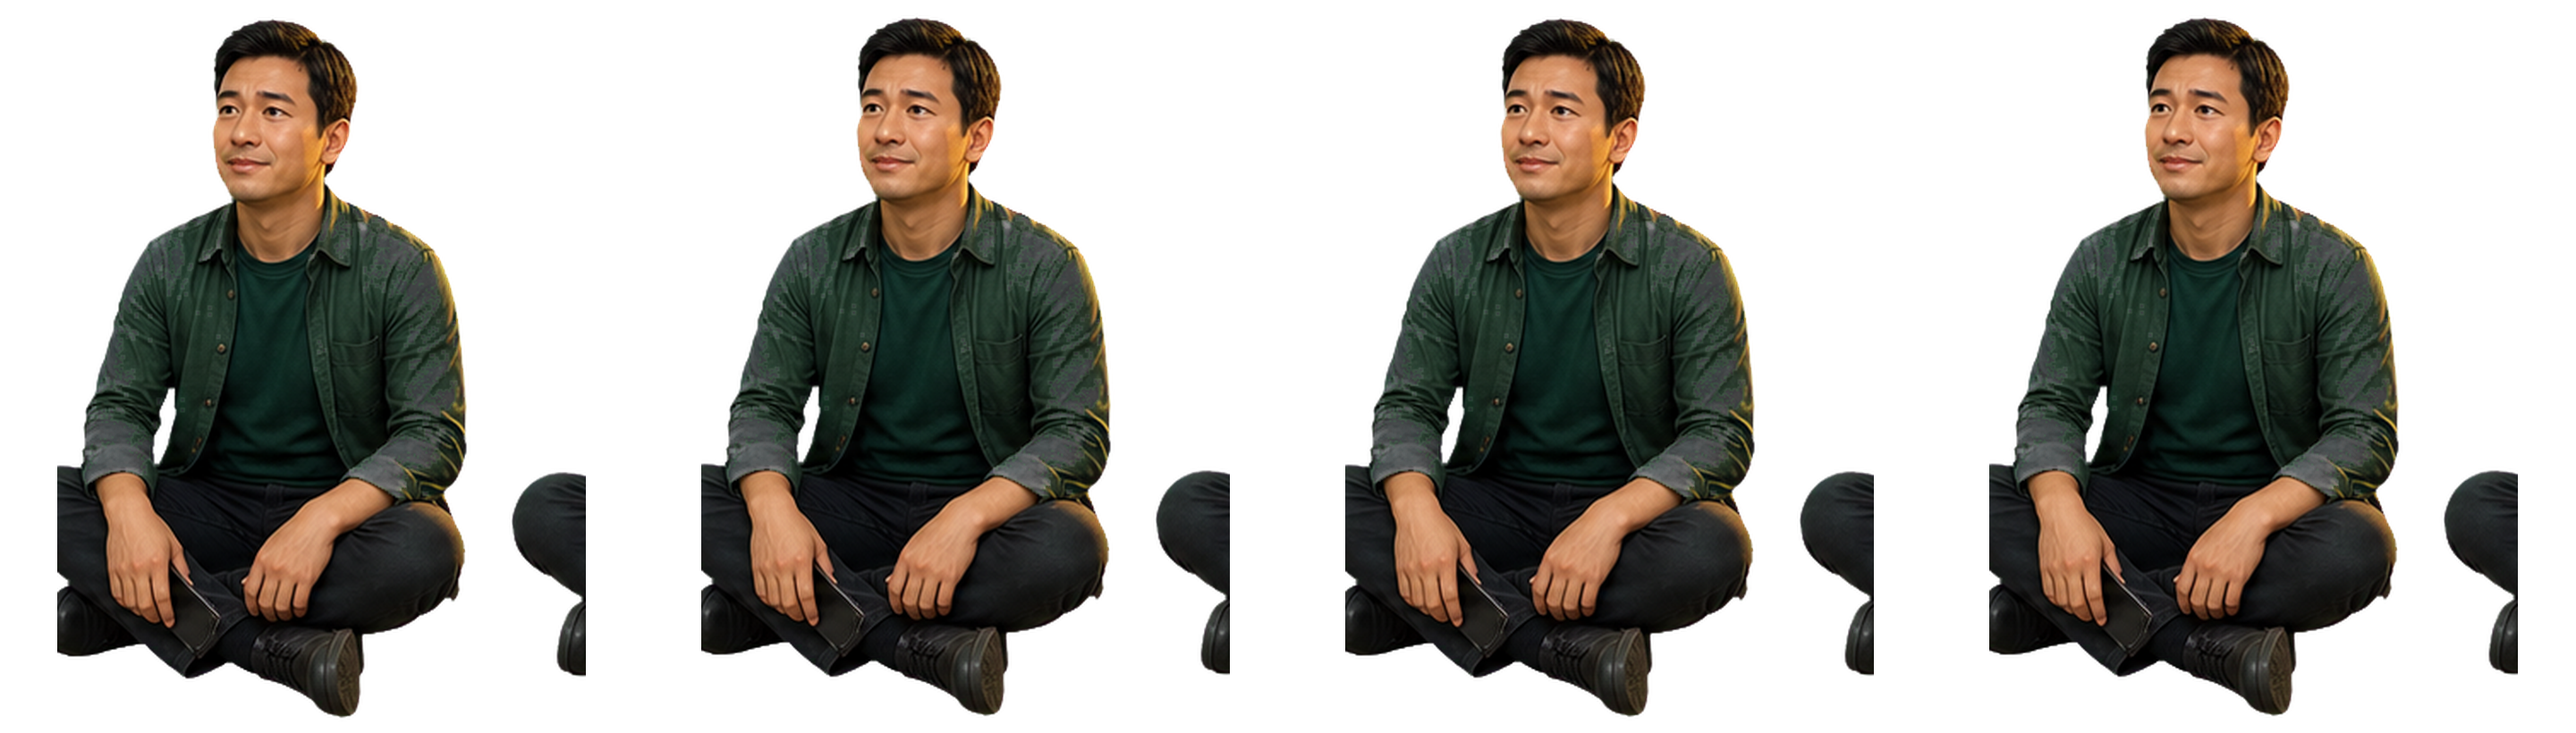
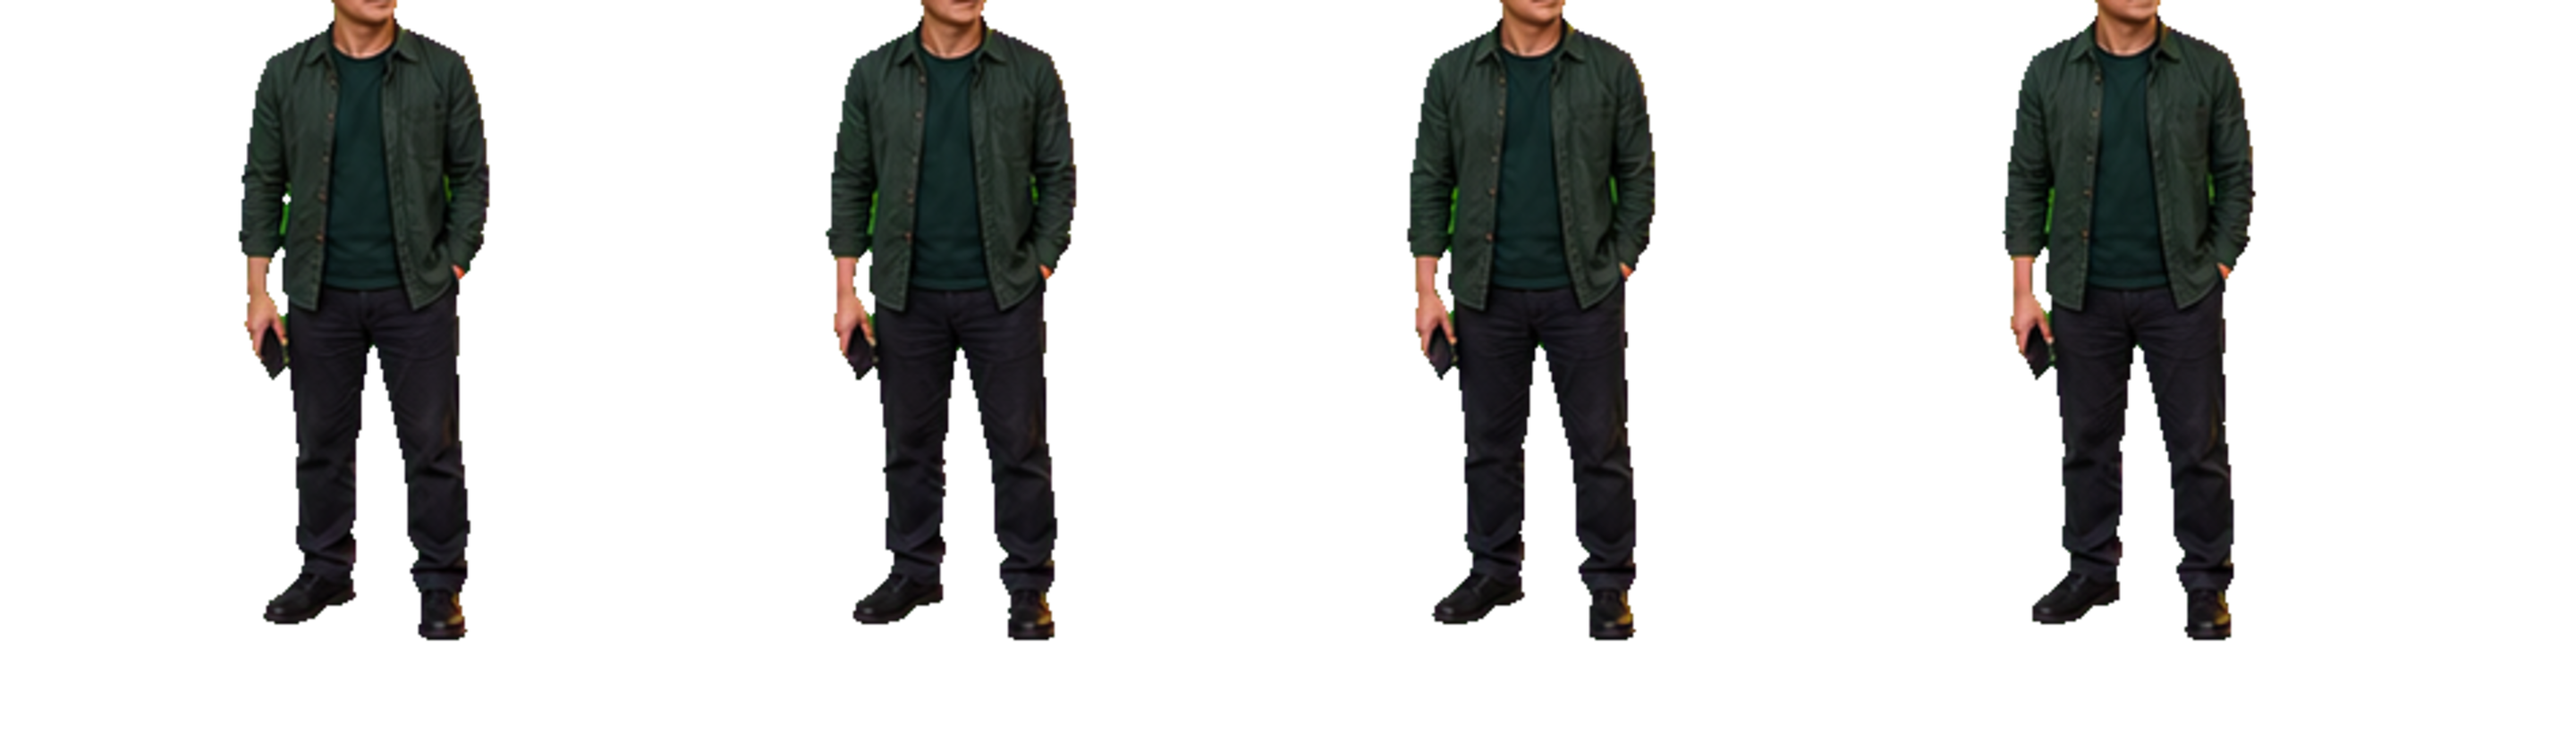
Replace rooftop protagonist stance

diff --git a/src/game/scenes/rooftopScene.ts b/src/game/scenes/rooftopScene.ts
@@ -320,10 +320,11 @@ export class RooftopScene extends Phaser.Scene {
     const state = this.getCharacterState();
     this.ensureCharacterAnimations();
     this.addCharacterContactShadows();
-    const sprite = this.add.sprite(608, 638, `trader-${state}`, 0).setDepth(24);
+    const sprite = this.add.sprite(612, 666, `trader-${state}`, 0).setDepth(24);
     const progressIndex = this.getCharacterProgressIndex();
-    sprite.setScale(0.305 * (1 + progressIndex * 0.004));
-    sprite.setOrigin(0.5, 0.94);
+    const stateScale = progressIndex === characterStates.length - 1 ? 0.47 : 0.56 * (1 + progressIndex * 0.004);
+    sprite.setScale(stateScale);
+    sprite.setOrigin(0.5, 0.98);
     sprite.setTint(0xa7a08a);
     sprite.setAlpha(0.94);
     sprite.play(`trader-${state}-anim`);
@@ -351,9 +352,9 @@ export class RooftopScene extends Phaser.Scene {
   }
 
   private addCharacterContactShadows(): void {
-    this.add.ellipse(600, 650, 176, 26, 0x03100c, 0.22).setDepth(23).setAngle(-4);
-    this.add.ellipse(540, 675, 98, 14, 0x03100c, 0.17).setDepth(23).setAngle(-9);
-    this.add.ellipse(680, 648, 96, 15, 0x03100c, 0.13).setDepth(23).setAngle(5);
+    this.add.ellipse(612, 666, 150, 22, 0x03100c, 0.25).setDepth(23).setAngle(-5);
+    this.add.ellipse(558, 678, 72, 12, 0x03100c, 0.16).setDepth(23).setAngle(-10);
+    this.add.ellipse(674, 674, 64, 11, 0x03100c, 0.13).setDepth(23).setAngle(6);
   }
 
   private getCharacterState(): CharacterState {

diff --git a/TASK_STATE.md b/TASK_STATE.md
@@ -93,6 +93,8 @@ The second level is now wired as a playable Phaser flow and has been rebuilt wit
 - Done: retuned the v6 embedded hotspots so the table receipt and left hand-held phone no longer overlap and the sixth clue remains accessible.
 - Done: resized, darkened, and grounded the independent trader state sprite on the foreground ledge so it reads as a foreground character state rather than a tiny floating sticker.
 - Done: strengthened the active hint marker with a local double outline and dot; Playwright verified the sixth hint lands on `杠杆合同边角` after the first five rooftop clues are found.
+- Done: replaced the old seated rooftop trader spritesheets with standing full-body protagonist spritesheets generated on chroma key and converted into the existing `progress-0` through `progress-6` Phaser sheet contract.
+- Done: changed the rooftop protagonist from a wall/ground seated pose to a grounded standing pose, retuned his scene scale, origin, shadow, and completion-state scale so the character reads closer to the background adults.
 - QA finding resolved: the previous script-generated flat/sticker mismatch has been replaced by unified bitmap scene art.
 - QA finding resolved: the quick-news clipping now sits on the rooftop floor instead of floating.
 - QA finding resolved: green chroma-key fringe was removed from transparent character and prop assets.
@@ -108,6 +110,7 @@ The second level is now wired as a playable Phaser flow and has been rebuilt wit
 - QA finding resolved: the v5 pass still looked too similar from the player view. The v6 pass changes the actual composition and investigation density instead of only nudging clue positions.
 - QA finding resolved: h1/h2 access hotspots no longer overlap, so label-based clicks hit the intended clue.
 - QA finding resolved: the sixth hint waits for the rewarded-ad flow and then highlights the remaining contract clue visibly.
+- QA finding resolved: the protagonist is no longer the old small seated cutout; Playwright screenshots `artifacts/rooftop-standing-progress-0.png` and `artifacts/rooftop-standing-progress-6.png` verify the replacement standing state in both start and completion states.
 - Remaining QA risk: final user visual approval is still needed, but the runtime no longer relies on placeholder SVG/vector-generated rooftop assets.
 
 Second-level optimization plan:
